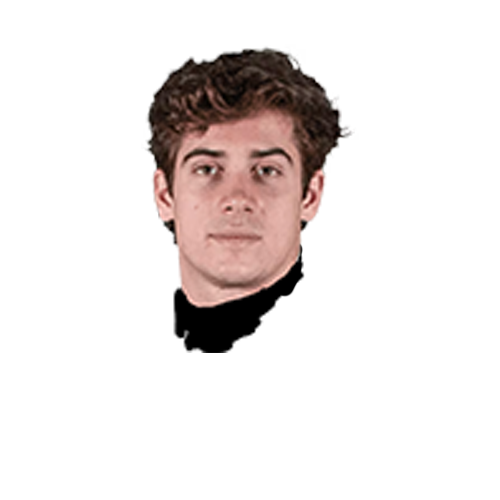
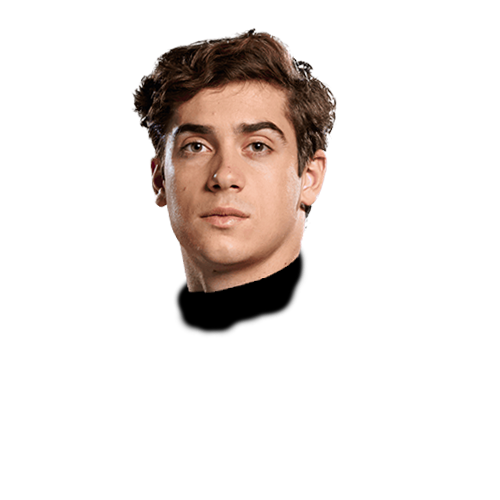
Added Colapinto

Changed region(s): [[0.27, 0.06, 0.72, 0.72]]

diff --git a/F1Sim/app.py b/F1Sim/app.py
@@ -10,6 +10,7 @@ app = Flask(__name__)
 app.secret_key = 'your_secret_key'
 app.register_blueprint(lineup_blueprint)
 first_start = True
+folder = "F1Sim"
 
 
 def inizializza_titoli(filename):
@@ -58,7 +59,13 @@ def inizializza_simulazione(nome_giocatore, nome_team):
     team_iniziale.piloti.append(giocatore)
     team_iniziale.piloti.remove(pilota_sostituito)
     piloti.append(giocatore)
-    if os.path.exists(filename) and os.stat(filename).st_size > 0:
+    file_path = os.path.join(folder, filename)
+    if "F1Sim" not in os.path.normpath(file_path):
+        file_path = os.path.join(folder, filename)
+    else:
+        file_path = filename  # già dentro F1Sim
+    if (( os.path.exists(filename) or os.path.exists(file_path) )
+            and ( os.stat(file_path).st_size > 0 or os.stat(filename).st_size > 0) ):
         inizializza_titoli(filename)
 
 

diff --git a/F1Sim/lineup.py b/F1Sim/lineup.py
@@ -39,7 +39,7 @@ import datetime
 
 # Lista dei piloti svincolati
 nomi_piloti_svincolati_iniziali = [
-    "Logan Sargeant", "Franco Colapinto", "Kevin Magnussen", "Daniel Ricciardo", "Guanyu Zhou",
+    "Logan Sargeant", "Jack Doohan", "Kevin Magnussen", "Daniel Ricciardo", "Guanyu Zhou",
     "Sergio Perez", "Valtteri Bottas"
 ]
 piloti_svincolati = []
@@ -54,7 +54,7 @@ scuderie_piloti = {
     "racing-bulls": ["Liam Lawson", "Isack Hadjar"],
     "haas": ["Oliver Bearman", "Esteban Ocon"],
     "mercedes": ["George Russell", "Kimi Antonelli"],
-    "alpine": ["Pierre Gasly", "Jack Doohan"],
+    "alpine": ["Pierre Gasly", "Franco Colapinto"],
     "williams": ["Carlos Sainz", "Alexander Albon"],
     "sauber": ["Gabriel Bortoleto", "Nico Hulkenberg"],
     "aston-martin": ["Fernando Alonso", "Lance Stroll"]
